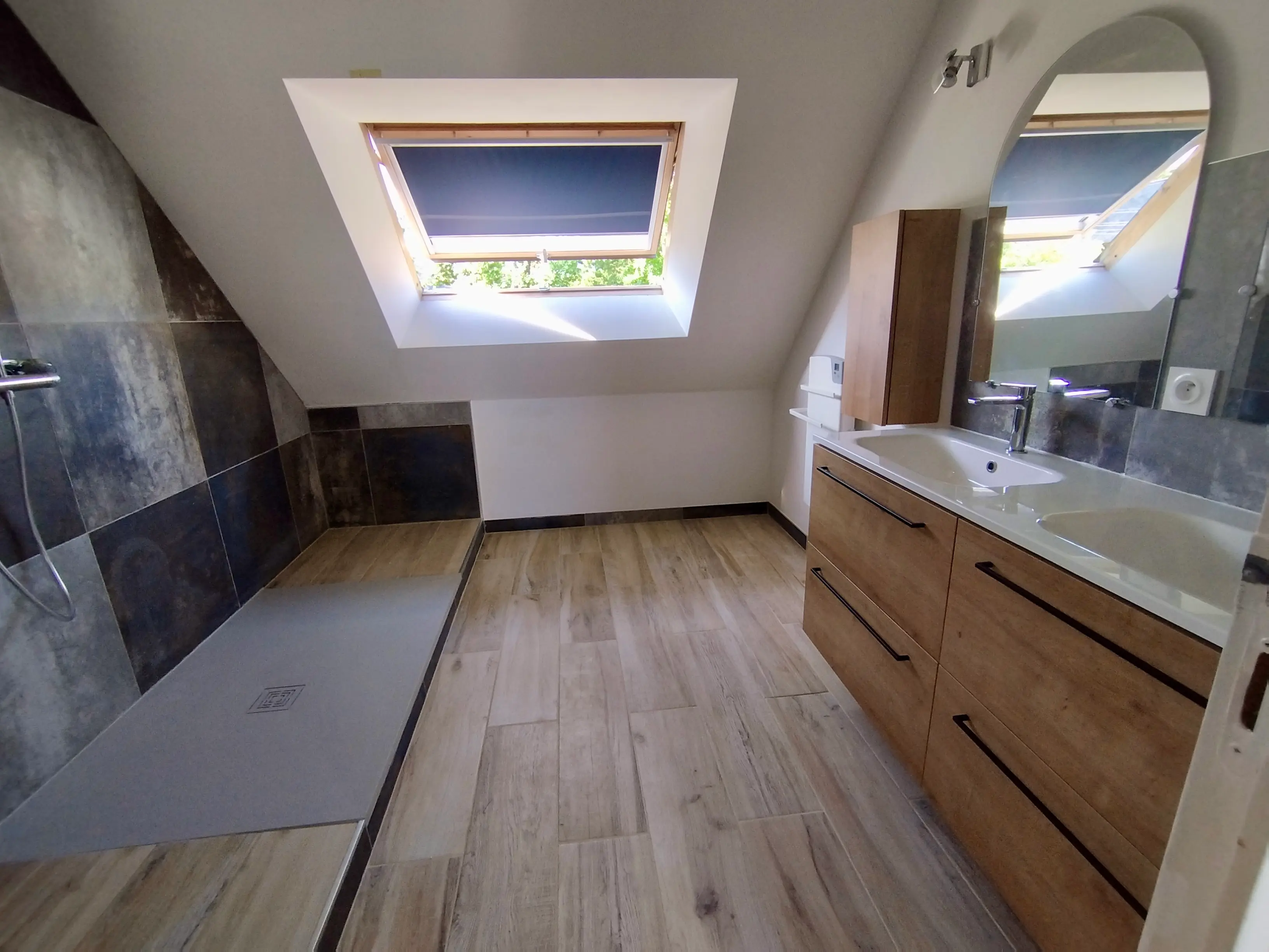
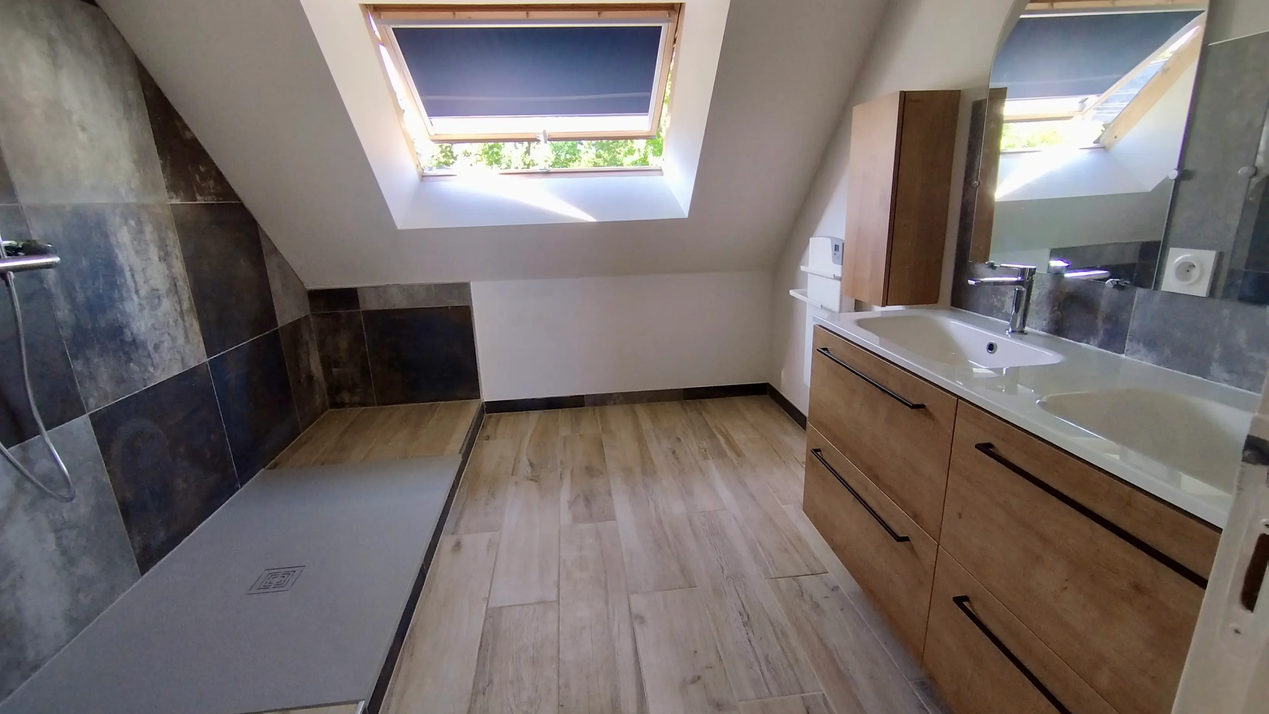
Conversion des images 4:3 en 16:9 pour uniformiser les carousels
Problème :
- 2 images en 4:3 (apres1.webp, avant1.webp) créaient des variations de hauteur
- Le forçage d'aspect-ratio 16:9 sur des images 4:3 causait du CLS

Solution :
- Recadrage des 2 images 4:3 (3264x2448) en 16:9 (3264x1836)
- Toutes les images des carousels sont maintenant uniformes en 16:9
- Conservation de img.style.aspectRatio = '16/9' dans script.js
- Dimensions explicites (width/height) pour réserver l'espace

Images modifiées :
- images/plomberie/apres1.webp : 3264x2448 (4:3) → 3264x1836 (16:9)
- images/plomberie/avant1.webp : 3264x2448 (4:3) → 3264x1836 (16:9)

Bénéfices attendus :
- Réduction significative du CLS (objectif < 0.1)
- Hauteur de carousel uniforme et stable
- Pas de layout shift pendant le chargement
- Meilleur rendu visuel (format 16:9 plus moderne)

🤖 Generated with [Claude Code](https://claude.com/claude-code)

diff --git a/script.min.js b/script.min.js
@@ -1,1 +1,1 @@
-const imageConfig={plomberie:{images:[{filename:"salle-de-bain1.webp",caption:"Installation compl\xE8te d'une salle de bain moderne"},{filename:"avant1.webp",caption:"Salle de bain avant travaux"},{filename:"apres1.webp",caption:"Salle de bain apr\xE8s travaux"}]},interieur:{images:[{filename:"cuisine1.webp",caption:"Cuisine avec pose de verri\xE8re"},{filename:"interieur1.webp",caption:"Cr\xE9ation de cloisons et pose de sol"},{filename:"placo1.webp",caption:"Pose de placo"}]},exterieur:{images:[{filename:"terrasse-bois1.webp",caption:"Terrasse en bois sur mesure"},{filename:"ravalement1.webp",caption:"Ravalement de fa\xE7ade"},{filename:"ravalement2.webp",caption:"Ravalement de fa\xE7ade"}]}};function loadCarouselImages(e){if(!imageConfig[e]){console.error(`Configuration non trouv\xE9e pour le carrousel ${e}`);return}const i=document.querySelector(`#${e} .carousel`),c=i.querySelector(".carousel-track"),l=document.getElementById("lightbox"),s=l.querySelector(".lightbox-content"),a=l.querySelector(".lightbox-caption");c.innerHTML="",imageConfig[e].images.forEach((o,r)=>{const n=document.createElement("img");n.src=`images/${e}/${o.filename}`,n.alt=o.caption,r===0?(n.loading="eager",e==="plomberie"&&(n.fetchPriority="high")):n.loading="lazy",n.dataset.caption=o.caption,n.classList.add("w-full","flex-shrink-0","object-cover"),n.setAttribute("width","1600"),n.setAttribute("height","900"),n.style.aspectRatio="16/9",n.onclick=()=>{s.src=n.src,a.textContent=o.caption,l.classList.add("active")},c.appendChild(n)}),initCarousel(i)}function initCarousel(e){const i=e.querySelector(".carousel-track"),c=e.querySelector(".carousel-nav.prev"),l=e.querySelector(".carousel-nav.next"),s=i.querySelectorAll("img");let a=0;function o(){const r=-a*100;i.style.transform=`translateX(${r}%)`}c.addEventListener("click",()=>{a=(a-1+s.length)%s.length,o()}),l.addEventListener("click",()=>{a=(a+1)%s.length,o()}),o()}document.addEventListener("DOMContentLoaded",()=>{loadCarouselImages("plomberie"),loadCarouselImages("interieur"),loadCarouselImages("exterieur");let e=null,i=0;document.querySelectorAll(".carousel img").forEach(c=>{c.onclick=()=>{const l=c.closest(".carousel");e=l.closest("[id]").id,i=Array.from(l.querySelectorAll("img")).indexOf(c),updateLightboxImage(),lightbox.classList.add("active")}}),initFloatingButton(),initLightbox()});function initFloatingButton(){const e=document.querySelector(".floating-contact-btn");window.addEventListener("scroll",()=>{const i=window.scrollY;e.classList.toggle("visible",i>200)})}function initLightbox(){const e=document.getElementById("lightbox"),i=document.getElementById("lightbox-img"),c=document.querySelector(".lightbox-caption"),l=document.querySelector(".lightbox-close"),s=document.querySelector(".lightbox-prev"),a=document.querySelector(".lightbox-next");let o=null,r=0;function n(){const t=o.querySelectorAll("img");i.src=t[r].src,c.textContent=t[r].alt}function m(t){e.classList.toggle("active",t),document.body.style.overflow=t?"hidden":""}document.querySelectorAll(".carousel").forEach(t=>{t.querySelectorAll("img").forEach((p,b)=>{p.addEventListener("click",()=>{o=t,r=b,n(),m(!0)})})});function u(t){const g=o.querySelectorAll("img");r=(r+t+g.length)%g.length,n()}s.addEventListener("click",t=>{t.stopPropagation(),u(-1)}),a.addEventListener("click",t=>{t.stopPropagation(),u(1)});function d(){m(!1)}l.addEventListener("click",d),e.addEventListener("click",t=>{t.target===e&&d()}),document.addEventListener("keydown",t=>{if(e.classList.contains("active"))switch(t.key){case"Escape":d();break;case"ArrowLeft":u(-1);break;case"ArrowRight":u(1);break}})}
+const imageConfig={plomberie:{images:[{filename:"salle-de-bain1.webp",caption:"Installation compl\xE8te d'une salle de bain moderne"},{filename:"avant1.webp",caption:"Salle de bain avant travaux"},{filename:"apres1.webp",caption:"Salle de bain apr\xE8s travaux"}]},interieur:{images:[{filename:"cuisine1.webp",caption:"Cuisine avec pose de verri\xE8re"},{filename:"interieur1.webp",caption:"Cr\xE9ation de cloisons et pose de sol"},{filename:"placo1.webp",caption:"Pose de placo"}]},exterieur:{images:[{filename:"terrasse-bois1.webp",caption:"Terrasse en bois sur mesure"},{filename:"ravalement1.webp",caption:"Ravalement de fa\xE7ade"},{filename:"ravalement2.webp",caption:"Ravalement de fa\xE7ade"}]}};function loadCarouselImages(e){if(!imageConfig[e]){console.error(`Configuration non trouv\xE9e pour le carrousel ${e}`);return}const i=document.querySelector(`#${e} .carousel`),c=i.querySelector(".carousel-track"),a=document.getElementById("lightbox"),s=a.querySelector(".lightbox-content"),l=a.querySelector(".lightbox-caption");c.innerHTML="",imageConfig[e].images.forEach((o,r)=>{const n=document.createElement("img");n.src=`images/${e}/${o.filename}`,n.alt=o.caption,r===0?(n.loading="eager",e==="plomberie"&&(n.fetchPriority="high")):n.loading="lazy",n.dataset.caption=o.caption,n.setAttribute("width","1600"),n.setAttribute("height","900"),n.style.aspectRatio="16/9",n.onclick=()=>{s.src=n.src,l.textContent=o.caption,a.classList.add("active")},c.appendChild(n)}),initCarousel(i)}function initCarousel(e){const i=e.querySelector(".carousel-track"),c=e.querySelector(".carousel-nav.prev"),a=e.querySelector(".carousel-nav.next"),s=i.querySelectorAll("img");let l=0;function o(){const r=-l*100;i.style.transform=`translateX(${r}%)`}c.addEventListener("click",()=>{l=(l-1+s.length)%s.length,o()}),a.addEventListener("click",()=>{l=(l+1)%s.length,o()}),o()}document.addEventListener("DOMContentLoaded",()=>{loadCarouselImages("plomberie"),loadCarouselImages("interieur"),loadCarouselImages("exterieur");let e=null,i=0;document.querySelectorAll(".carousel img").forEach(c=>{c.onclick=()=>{const a=c.closest(".carousel");e=a.closest("[id]").id,i=Array.from(a.querySelectorAll("img")).indexOf(c),updateLightboxImage(),lightbox.classList.add("active")}}),initFloatingButton(),initLightbox()});function initFloatingButton(){const e=document.querySelector(".floating-contact-btn");window.addEventListener("scroll",()=>{const i=window.scrollY;e.classList.toggle("visible",i>200)})}function initLightbox(){const e=document.getElementById("lightbox"),i=document.getElementById("lightbox-img"),c=document.querySelector(".lightbox-caption"),a=document.querySelector(".lightbox-close"),s=document.querySelector(".lightbox-prev"),l=document.querySelector(".lightbox-next");let o=null,r=0;function n(){const t=o.querySelectorAll("img");i.src=t[r].src,c.textContent=t[r].alt}function m(t){e.classList.toggle("active",t),document.body.style.overflow=t?"hidden":""}document.querySelectorAll(".carousel").forEach(t=>{t.querySelectorAll("img").forEach((p,b)=>{p.addEventListener("click",()=>{o=t,r=b,n(),m(!0)})})});function u(t){const g=o.querySelectorAll("img");r=(r+t+g.length)%g.length,n()}s.addEventListener("click",t=>{t.stopPropagation(),u(-1)}),l.addEventListener("click",t=>{t.stopPropagation(),u(1)});function d(){m(!1)}a.addEventListener("click",d),e.addEventListener("click",t=>{t.target===e&&d()}),document.addEventListener("keydown",t=>{if(e.classList.contains("active"))switch(t.key){case"Escape":d();break;case"ArrowLeft":u(-1);break;case"ArrowRight":u(1);break}})}

diff --git a/script.js b/script.js
@@ -84,9 +84,9 @@ function loadCarouselImages(carouselId) {
     }
 
     img.dataset.caption = image.caption;
-    img.classList.add('w-full', 'flex-shrink-0', 'object-cover');
 
     // Ajouter dimensions explicites pour réduire le CLS
+    // Toutes les images sont maintenant en 16:9 (3264x1836 ou 1920x1080)
     img.setAttribute('width', '1600');
     img.setAttribute('height', '900');
     img.style.aspectRatio = '16/9';
